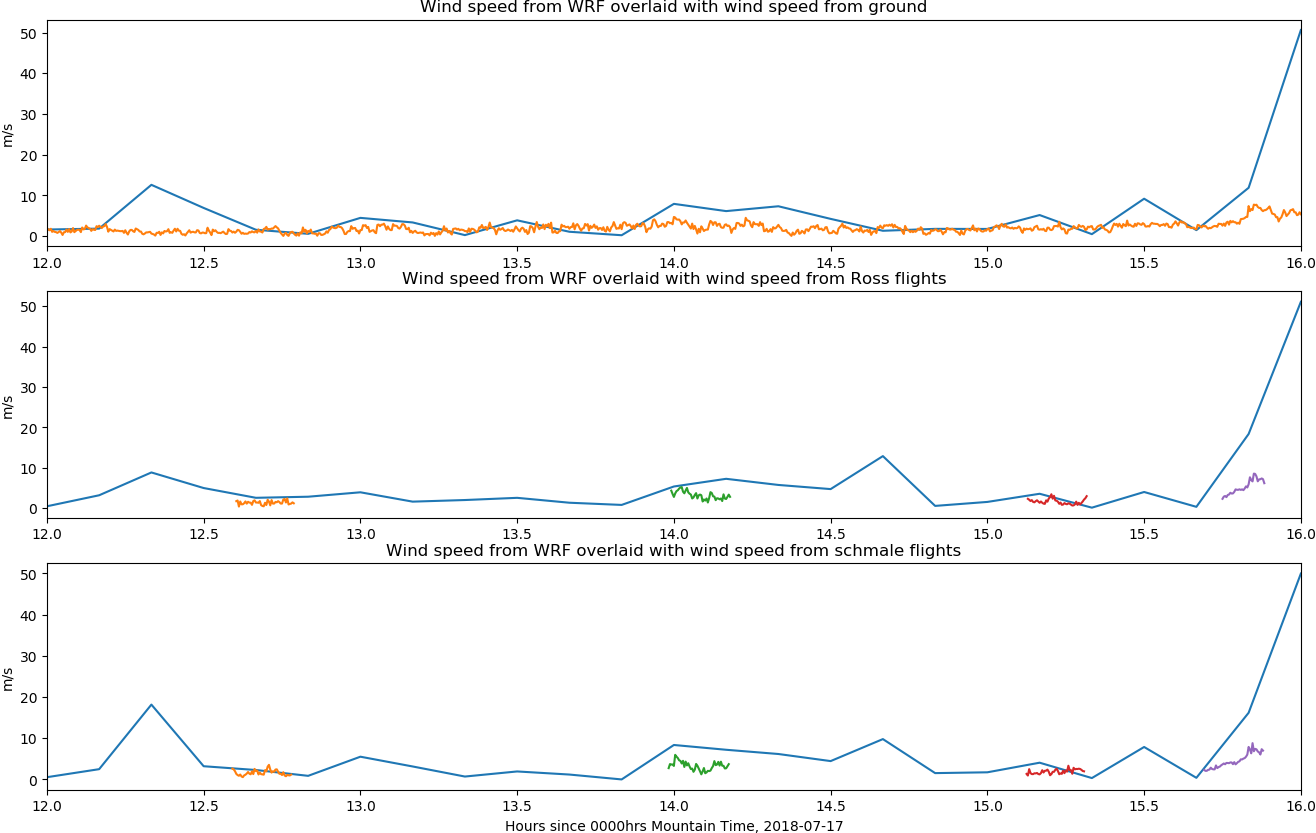
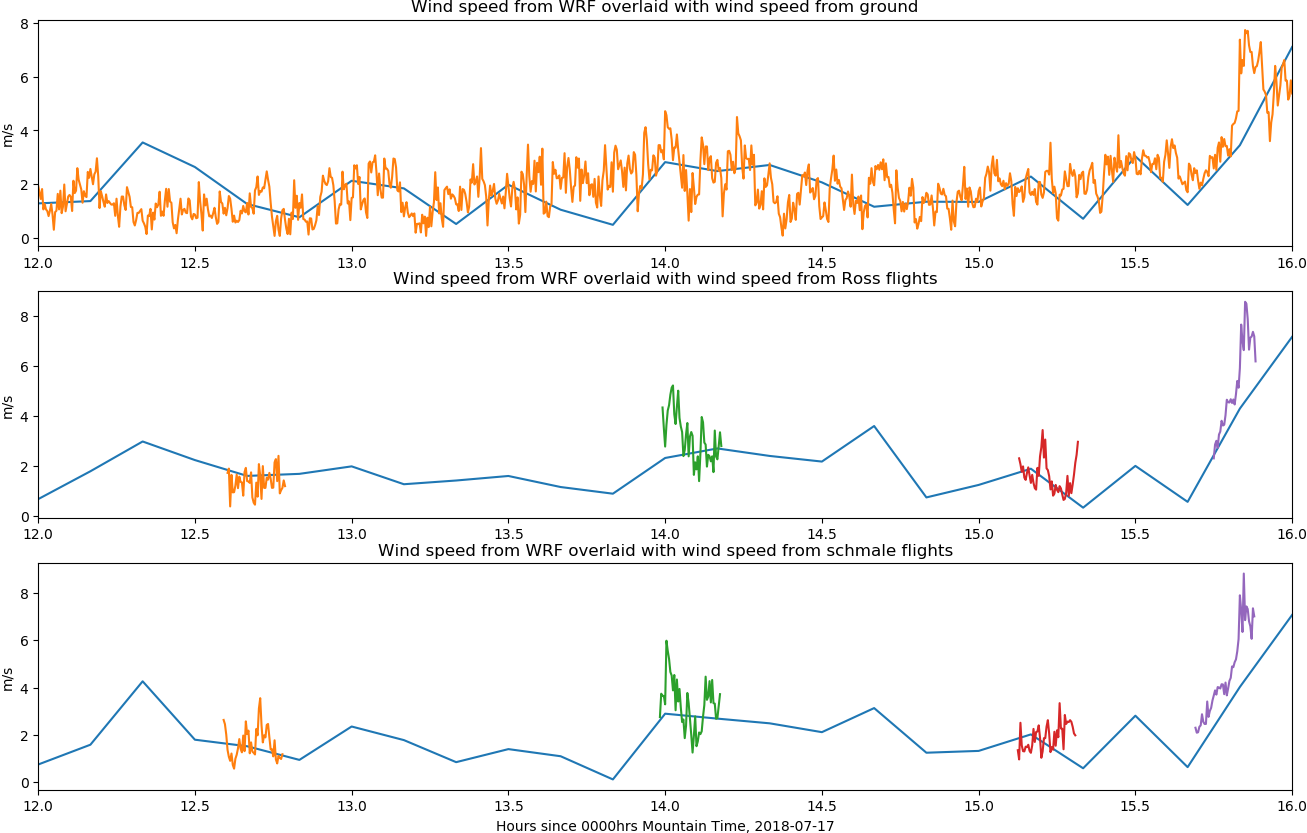
idk

diff --git a/compare_drone_temperature_to_nearest_gridpoints.py b/compare_drone_temperature_to_nearest_gridpoints.py
@@ -21,11 +21,10 @@ interp_method = 'nearest'
 xdim = 1008
 ydim = 882
 zdim = 20
-height_level = 0
+height_level = 1
 tdim = len(files)
 time = np.empty([tdim])
-u = np.empty([tdim,ydim,xdim])
-v = np.empty([tdim,ydim,xdim])
+wrf_temp = np.empty([tdim,ydim,xdim])
 
 tt=0
 print(tt)
@@ -34,13 +33,13 @@ root = Dataset(ncfile,'r') #read the data
 vars = root.variables #dictionary, all variables in dataset
 x = vars['x0'][:]*1000
 y = vars['y0'][:]*1000
+#z = vars['z3'][:]*1000
 lon = vars['lon0'][:]
 lat = vars['lat0'][:]
 proj_center_lon = getattr(vars['grid_mapping_0'],'longitude_of_projection_origin')
 proj_center_lat = getattr(vars['grid_mapping_0'],'latitude_of_projection_origin')
 time[tt] = vars['time'][:]
-u[tt,:,:] = vars['UGRD_HTGL'][0,height_level,:,:].squeeze()
-v[tt,:,:] = vars['VGRD_HTGL'][0,height_level,:,:].squeeze()
+wrf_temp[tt,:,:] = vars['TMP_HTGL'][0,height_level].squeeze()-273.15
 root.close()
 
 for tt in range(1,tdim):
@@ -49,12 +48,9 @@ for tt in range(1,tdim):
     root = Dataset(ncfile,'r') #read the data
     vars = root.variables #dictionary, all variables in dataset
     time[tt] = vars['time'][:]
-    u[tt,:,:] = vars['UGRD_HTGL'][0,height_level,:,:].squeeze()
-    v[tt,:,:] = vars['VGRD_HTGL'][0,height_level,:,:].squeeze()
+    wrf_temp[tt,:,:] = vars['TMP_HTGL'][0,height_level].squeeze()-273.15
     root.close()
 
-speed = u**2+v**2
-del u,v
 t0 = gmtime(time[0]).tm_hour-6
 tf = gmtime(time[-1]).tm_hour-6
 time = np.linspace(t0,tf,time.shape[0])
@@ -79,17 +75,17 @@ schmale_pos_m = f.lonlat2m(proj_center_lon,proj_center_lat,schmale_lon,schmale_l
 points = (time,y,x)
 [yi,ti,xi] = np.meshgrid(ross_pos_m[1],time,ross_pos_m[0])
 Xi = (ti.ravel(),yi.ravel(),xi.ravel())
-fs = RegularGridInterpolator(points,speed,method=interp_method)
+fs = RegularGridInterpolator(points,wrf_temp,method=interp_method)
 ross_comp_speed = fs(Xi)
 
 [yi,ti,xi] = np.meshgrid(schmale_pos_m[1],time,schmale_pos_m[0])
 Xi = (ti.ravel(),yi.ravel(),xi.ravel())
-fs = RegularGridInterpolator(points,speed,method=interp_method)
+fs = RegularGridInterpolator(points,wrf_temp,method=interp_method)
 schmale_comp_speed = fs(Xi)
 
 [yi,ti,xi] = np.meshgrid(ground_m[1],time,ground_m[0])
 Xi = (ti.ravel(),yi.ravel(),xi.ravel())
-fs = RegularGridInterpolator(points,speed,method=interp_method)
+fs = RegularGridInterpolator(points,wrf_temp,method=interp_method)
 ground_comp_speed = fs(Xi)
 
 ground_data = pd.read_csv('Ground5_MetData.txt', delim_whitespace=True,header=1,names=['date','time','wind_speed','wind_dir','temp'])
@@ -99,7 +95,7 @@ for t in range(ground_data.shape[0]):
     min_in_sec = int(ground_data['time'][t][3:5])*60
     sec = int(ground_data['time'][t][6:8])
     seconds.append(hrs_in_sec+min_in_sec+sec)
-ground_speed = ground_data['wind_speed']
+ground_speed = ground_data['temp']
 ground_sec = [x/3600 for x in seconds]
 
 
@@ -116,7 +112,7 @@ for i, pair in enumerate(paired_flights):
         sec = int(ross_data['time'][t][6:8])
         seconds.append(hrs_in_sec+min_in_sec+sec)
     ross_sec.append(seconds)
-    ross_speed.append(ross_data['wind_speed'])
+    ross_speed.append(ross_data['temp'])
     
     schmale_data = pd.read_csv('Schmale{:d}_DroneMetData.txt'.format(pair[1]), delim_whitespace=True,header=1,names=['date','time','wind_speed','wind_dir','temp'])
     seconds = []
@@ -125,7 +121,7 @@ for i, pair in enumerate(paired_flights):
         min_in_sec = int(schmale_data['time'][t][3:5])*60
         sec = int(schmale_data['time'][t][6:8])
         seconds.append(hrs_in_sec+min_in_sec+sec)
-    schmale_speed.append(schmale_data['wind_speed'])
+    schmale_speed.append(schmale_data['temp'])
     schmale_sec.append(seconds)
 
     
@@ -137,9 +133,9 @@ plt.figure(1,figsize=(width,height))
 plt.subplot(311)
 plt.plot(time,ground_comp_speed)
 plt.plot(ground_sec,ground_speed)
-plt.title('Wind speed from WRF overlaid with wind speed from ground')
+plt.title('Temperature from WRF overlaid with temperature from ground')
 #plt.xlabel('Hours since 0000hrs Mountain Time, 2018-07-17')
-plt.ylabel('m/s')
+plt.ylabel('degrees C')
 plt.xlim([12,16])
 
 plt.subplot(312)
@@ -147,8 +143,8 @@ plt.plot(time,ross_comp_speed)
 for x,y in zip(ross_sec,ross_speed):
     x=[element/3600 for element in x]
     plt.plot(x,y)
-plt.title('Wind speed from WRF overlaid with wind speed from Ross flights')
-plt.ylabel('m/s')
+plt.title('Temperature from WRF overlaid with temperature from Ross flights')
+plt.ylabel('degrees C')
 plt.xlim([12,16])
 
 plt.subplot(313)
@@ -156,9 +152,9 @@ plt.plot(time,schmale_comp_speed)
 for x,y in zip(schmale_sec,schmale_speed):
     x=[element/3600 for element in x]
     plt.plot(x,y)
-plt.title('Wind speed from WRF overlaid with wind speed from schmale flights')
-plt.ylabel('m/s')
+plt.title('Temperature from WRF overlaid with temperature from schmale flights')
+plt.ylabel('degrees C')
 plt.xlim([12,16])
 plt.xlabel('Hours since 0000hrs Mountain Time, 2018-07-17')
-plt.savefig('temperature_comparison_colorado_campaign_WRF_2018-07-17.png', transparent=False, bbox_inches='tight',pad_inches=0)
+plt.savefig('temperature_comparison_colorado_campaign_WRF_2018-07-17_wrf=30m.png', transparent=False, bbox_inches='tight',pad_inches=0)
 

diff --git a/compare_drone_windspeed_to_nearest_gridpoints.py b/compare_drone_windspeed_to_nearest_gridpoints.py
@@ -53,7 +53,22 @@ for tt in range(1,tdim):
     v[tt,:,:] = vars['VGRD_HTGL'][0,height_level,:,:].squeeze()
     root.close()
 
-speed = u**2+v**2
+
+speed = np.sqrt(u**2+v**2)
+
+plt.figure(2)
+plt.subplot(221)
+plt.pcolormesh(x,y,speed[-1,:,:])
+plt.colorbar()
+
+plt.subplot(222)
+plt.pcolormesh(x,y,u[-1,:,:])
+plt.colorbar()
+
+plt.subplot(223)
+plt.pcolormesh(x,y,v[-1,:,:])
+plt.colorbar()
+
 del u,v
 t0 = gmtime(time[0]).tm_hour-6
 tf = gmtime(time[-1]).tm_hour-6
@@ -132,7 +147,7 @@ for i, pair in enumerate(paired_flights):
 
 height = 10
 width = height*1.61803398875
-plt.close('all')
+
 plt.figure(1,figsize=(width,height))
 plt.subplot(311)
 plt.plot(time,ground_comp_speed)

diff --git a/plot_s1_field.py b/plot_s1_field.py
@@ -1,0 +1,21 @@
+# -*- coding: utf-8 -*-
+"""
+Created on Wed Sep 12 15:08:26 2018
+
+@author: pnola
+"""
+
+import matplotlib.pyplot as plt
+import numpy as np
+F = np.load('wrf_les_s1.npz')
+x = F['x']
+y = F['y']
+wrf_time = F['time']
+proj_center_lon = F['proj_center_lon']
+proj_center_lat = F['proj_center_lat']
+s1_wrf = F['s1']
+F.close()
+
+
+plt.pcolormesh(x,y,s1_wrf[0,:,:])
+plt.colorbar()
